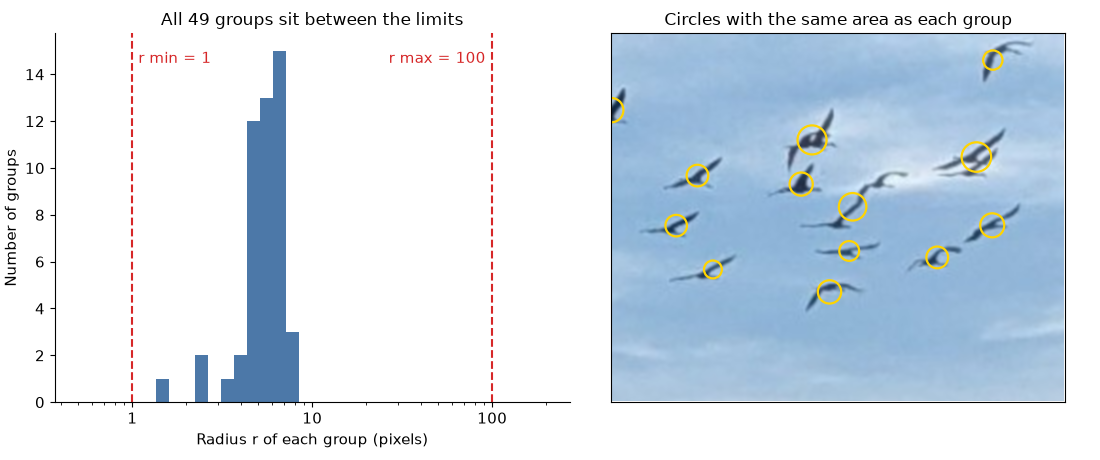
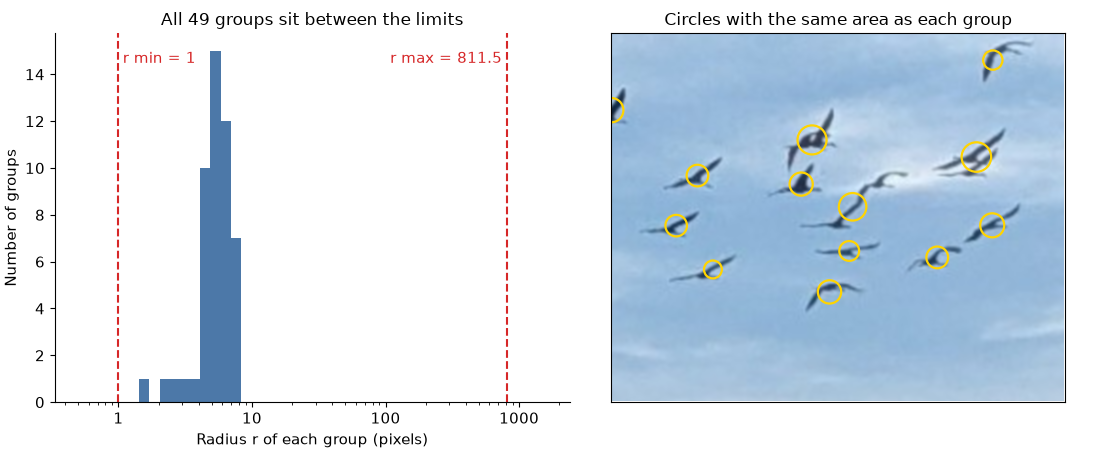
Correct the processing guide and restore the README features
Guide: use the app's real maximum radius in steps 15 and 16, which puts
the tree back in the step 16 figure, and tighten claims about specks and
the 8% floor. State the units of the island growth, and name the
Threshold slider in full so it isn't confused with the menu.

README: bring back the feature descriptions, drop the Detection Pipeline
section and link to the guide instead. CLAUDE.md points there too.

diff --git a/docs/processing.md b/docs/processing.md
@@ -110,7 +110,8 @@ the fields are still there, just blocky.
 ### Step 3: Measure how rough each area is
 
 Sky changes slowly from pixel to pixel, while trees and grass jump around. To measure this, we look at how much the
-brightness $C$ of the tiny copy changes going right ($G_x$) and going down ($G_y$), using two small patterns called *Sobel filters*:
+brightness $C$ of the tiny copy changes going right ($G_x$) and going down ($G_y$), using two small patterns called
+*Sobel filters*:
 
 $$
 G_x = \begin{bmatrix} -1 & 0 & 1 \cr -2 & 0 & 2 \cr -1 & 0 & 1 \end{bmatrix} * C
@@ -144,9 +145,10 @@ Being smooth is not enough. We use two more rules:
 1. **Sky is connected to the top of the photo.** A smooth area only counts as sky if you can walk from it to the top
    edge without leaving smooth pixels. This rules out the smooth patches in the field. Everything else is "not sky".
 2. **Small rough islands far from the land are still sky.** A sharp cloud edge or a very dense flock can look rough.
-   To find these, we grow the "not sky" areas by 15 pixels in every direction. If a grown piece reaches the edge of the
-   photo, it is landscape. If it floats alone in the middle, it is an island and it stays sky. This photo has one
-   tiny island, the orange dot in the left picture, in a patch of cloud.
+   To find these, we grow the "not sky" areas by 15 pixels of the tiny copy in every direction, which is about 93
+   pixels on the real photo. If a grown piece reaches the edge of the photo, it is landscape. If it floats alone in
+   the middle, it is an island and it stays sky. This photo has one tiny island, the orange dot in the left picture,
+   in a patch of cloud.
 
 Finally, a safety check. If less than 5% of the photo is sky, the photo is probably not a sky shot (think of birds on
 a lake), and the sky mask is not used at all. Here, 75% of the photo is sky, so we use it. The mask is then enlarged
@@ -224,7 +226,7 @@ $$
 - $c = 1$ means "black".
 
 Why divide instead of just subtracting? Because of light levels. A bird of brightness 50 on a sky of 200 has $c = 0.75$.
-On a dull evening with everything half as bright, that is 25 on 100, and $c$ is still $0.75$. The score means the same
+On a dull evening with everything half as bright, that is 25 on 100, and $c$ is still $0.75$. The number means the same
 thing in any light. Scientists call this *Weber contrast*.
 
 A real pixel in the middle of a bird, with sky $S = 173$ and photo $I = 33.6$:
@@ -268,8 +270,9 @@ doing its job.
 
 ### Step 11: Set a pass mark for every pixel
 
-Each pixel now gets its own pass mark $T$. It depends on the busyness, multiplied by the *Threshold* setting, $k = 9$.
-It is never lower than 8%, because birds are always at least that much darker than the sky:
+Each pixel now gets its own pass mark $T$. It depends on the busyness, multiplied by the *Threshold (× sky texture)*
+slider, $k = 9$. It is never lower than 8%, because the detector assumes a bird is at least that much darker than the
+sky:
 
 $$
 T = \max(0.08,\ k \times t)
@@ -318,9 +321,10 @@ the fields.
 
 ### Step 13: Remove whatever touches the landscape
 
-Now we use the sky mask from step 4. **Any connected piece that touches the "not sky" area is removed as a whole**, not
-just the part that overlaps. That way, a branch sticking out into the sky goes away together with the tree it belongs to.
-You can see this in the zoomed picture: the tree's outer leaves are red, even though some are outside the mask.
+Now we use the sky mask from step 4. **Any connected piece that touches the "not sky" area is removed as a whole**,
+not just the part that overlaps. That way, a branch sticking out into the sky goes away together with the tree it
+belongs to. You can see this in the zoomed picture: the tree's outer leaves are red, even though some are outside
+the mask.
 
 If you painted a mask by hand in the app, it is applied here too. It works differently: it only cuts off the pixels
 you painted. And if you cropped the photo, everything on this page simply runs on the cropped part.
@@ -367,8 +371,9 @@ $$
 r_{\min} \le r \le r_{\max}
 $$
 
-The minimum is 1 pixel by default. The maximum is 100 pixels in the detector itself. The app sets its slider to half
-the photo's shorter side when you open a photo, which would be 811.5 pixels here.
+The minimum is 1 pixel by default. The app sets the maximum to half the photo's shorter side when you open a photo,
+which is 811.5 pixels here. (The detector's own default, used by the `count` example, is 100 pixels. It gives the same
+53 birds on this photo.)
 
 On this photo nothing is removed, because the groups go from $r = 1.5$ to $r = 7.8$. Birds in one photo are usually
 about the same size, as the left chart shows.
@@ -391,10 +396,11 @@ into the frame. A small bird cut by the edge is fine.
 
 Here $m = 98$ pixels, so the limits are 2,450 and 294 pixels. The largest group has 191 pixels, so again nothing is
 removed, because the sky mask has already done this job. To see this rule at work, the left picture shows what would
-happen with the sky mask switched off: of 227 groups, 12 would be removed, all of them big pieces of the field and
-fence.
+happen with the sky mask switched off. Of 228 groups, 13 would be removed: the whole tree, which alone has 227,338
+pixels, and big pieces of the horizon, field and fence. The many small white pieces in the field would stay, and the
+count would be 323. That is why the sky mask is needed as well.
 
-![Which groups the size rule would remove, and how groups compare with the limits](images/18_clutter.png)
+![Which groups this rule would remove with the sky mask off, and how groups compare with the limits](images/18_clutter.png)
 
 ### Step 17: Spot birds that overlap
 
@@ -408,8 +414,9 @@ with nearby birds. For a group $G$ we do this:
 
    $$\text{distance}(G, H) \le 12 \times \sqrt{A_H}$$
 
-   The group itself counts too. Measuring in $H$'s own size means tiny specks must be very close to count, and they
-   can't make a big bird look like several.
+   The group itself counts too. Measuring in $H$'s own size means a tiny speck only counts when it is very close: a
+   4-pixel speck must be within $12 \times \sqrt{4} = 24$ pixels. So specks far away can't make a big bird look like
+   several.
 
 2. **Check there are enough of them.** With fewer than 4 neighbours we can't tell what is normal, so the group counts
    as 1 bird. Six groups in this photo are like that.
@@ -453,20 +460,21 @@ The app then draws a ring on each group: red for one bird, and orange with a num
 
 ## Where it goes wrong
 
-The detector is not perfect, and this photo shows two typical mistakes. 53 is the detector's answer, not the true number.
+The detector is not perfect, and this photo shows two typical mistakes. 53 is the detector's answer, not the true
+number.
 
 ![The missed distant flock, and the twig counted as a bird](images/21_limits.jpg)
 
 - **A far-away flock is mostly missed (left).** Just above the horizon there is a second flock of about a dozen birds
-  (counted by eye), so small and pale that only 6 small pieces of them pass the $q > 0.6$ bar, and just one of those reaches $q > 1$. So
-  only one ring lands on them.
+  (counted by eye), so small and pale that only 6 small pieces of them pass the $q > 0.6$ bar, and just one of those
+  reaches $q > 1$. So only one ring lands on them.
 - **A twig is counted as a bird (right).** It sits in a gap in the leaves and doesn't touch the rest of the tree in the
   $q > 0.6$ picture, so step 13 doesn't remove it. It is even shaped a bit like a bird.
 
-You can fix these by hand in the app. Paint a mask over the twig, or lower the *Threshold* setting to catch the far
-flock. Lowering it has a cost, though. It catches more of that flock, but it also adds rings elsewhere:
+You can fix these by hand in the app. Paint a mask over the twig, or lower the *Threshold (× sky texture)* slider to
+catch the far flock. Lowering it has a cost, though. It catches more of that flock, but it also adds rings elsewhere:
 
-| *Threshold* $k$ | Birds counted in the photo | Of those, in the far flock |
+| Slider value $k$ | Birds counted in the photo | Of those, in the far flock |
 | --- | --- | --- |
 | 9 (default) | 53 | 1 |
 | 6 | 60 | 4 |
@@ -504,9 +512,9 @@ flock. Lowering it has a cost, though. It catches more of that flock, but it als
 
 ## What about the other methods?
 
-The *Threshold* menu in the settings also offers *Adaptive* and *Otsu*. They replace steps 5 to 12 with a simpler
-recipe: blur the photo, apply a threshold that doesn't know about the sky, and clean up with an opening and a closing.
-Step 13 still runs, and then an outline drawn around each shape replaces step 14. Steps 1 to 4 and 15 to 18 stay the
-same. See the [Detection Pipeline](../README.md#detection-pipeline) section of the README.
+The *Threshold* menu in the settings, where *Sky background* is the default, also offers *Adaptive* and *Otsu*. They
+replace steps 5 to 12 with a simpler recipe: blur the photo, apply a threshold that doesn't know about the sky, and
+clean up with an opening and a closing. Step 13 still runs, and then an outline drawn around each shape replaces step
+14. Steps 1 to 4 and 15 to 18 stay the same.
 
 The web version does all of the same steps with OpenCV.js, in [`detector.js`](../src/detector.js).

diff --git a/README.md b/README.md
@@ -35,6 +35,8 @@ Get the latest build from [GitHub Releases](https://github.com/qoqosz/BirdsCount
 - Vanilla HTML/CSS/JS frontend (`src/`) for interaction, preview, and controls
 
 The app loads an image, detects bird-like blobs, annotates them with circles, and returns the count.
+[How BirdsCounter counts birds](docs/processing.md) explains the detection algorithm step by step, with pictures and
+the formulas.
 
 - **Marked birds:** the eye button on the photo shows or hides the rings around the detected birds.
 - **Full resolution:** the expand button (or a double click/tap on the photo) opens the photo full screen. Pinch,
@@ -60,36 +62,7 @@ The app loads an image, detects bird-like blobs, annotates them with circles, an
 - Frontend: static HTML/CSS/JS (no Node bundler required)
 
 
-## Detection Pipeline
-
-`process_image` (Rust command, `src-tauri/src/blob_filter.rs`) supports three methods.
-
-**Sky background** (`background`, default):
-1. Decode image bytes, convert to grayscale (*Invert* looks for light birds on a dark background)
-2. Estimate the sky: a 3×3 opening removes bright specks (sharpening halos around birds, noise peaks), then a
-   morphological closing with a *local window* larger than a bird's thickness erases the birds, then box blur
-3. Relative darkness (Weber contrast) `(sky − pixel) / sky` after a light Gaussian blur (*Blur*):
-   birds are silhouettes, so they stand out against bright and dark clouds alike
-4. Local sky texture: median absolute contrast × 1.4826 (a robust standard deviation, capped at 5%) over a window
-   3× the local window; birds covering less than half of it do not raise it, so dense flocks stay detectable
-5. Threshold per pixel = max(8%, *threshold* × local texture); hysteresis grows detections down to 60% of it,
-   so cloud texture needs more contrast than a smooth sky
-6. Connected components, radius filtering from pixel area
-
-**Adaptive / Otsu** (classic): blur → threshold → optional inversion → morphological open/close → exclusion mask → external contours → radius filtering.
-
-For all methods, *Only sky* (on by default) first finds the sky: the image is scaled so the local
-window spans 5 px, birds are erased by a closing, and areas whose relative gradient (averaged over
-~2 windows) exceeds 0.3 count as rough. The sky is the smooth area connected to the top edge plus rough
-islands far from the rest (dense flocks); detections touching the rest (trees, roofs, the horizon,
-fields) are dropped as a whole. If under 5% of the image is sky, the mask is skipped.
-
-Then blobs over 25× the median detection, or over 3× when touching the image edge
-(trees, roofs, lamps), are dropped. *Split merged birds* then compares every blob with the median
-area of up to 12 detections of the same flock (within 12 of their own sizes) and counts it as
-`round(area / reference)` birds. Single birds are circled in red, merged ones in orange with their count.
-
-### Testing the detector
+## Testing the detector
 
 ```bash
 cd src-tauri

diff --git a/CLAUDE.md b/CLAUDE.md
@@ -98,8 +98,7 @@ The Rust toolchain is pinned to 1.92.0 in `rust-toolchain.toml`.
   non-sky areas are dropped whole by `drop_touching`, while the user's painted mask only cuts them. Its
   thresholds are the `SKY_*` constants, in units of a downscaled copy where the local window is 5 px.
 - Post-processing is shared by all methods. `drop_clutter` removes oversized and edge-touching blobs, and
-  `split_merged` counts merged birds as `round(area / flock median)`. The README's "Detection Pipeline" section has
-  the details.
+  `split_merged` counts merged birds as `round(area / flock median)`. `docs/processing.md` has the details.
 
 **Frontend (`src/`)**
 
